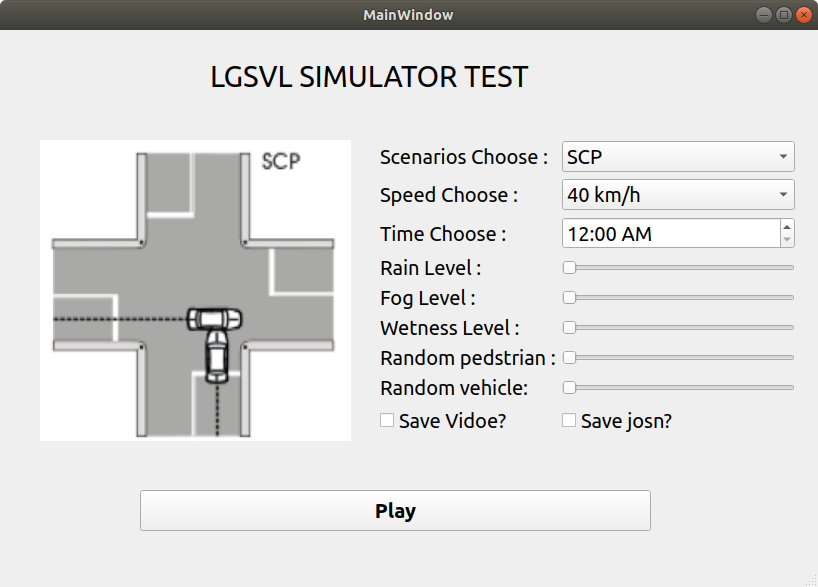
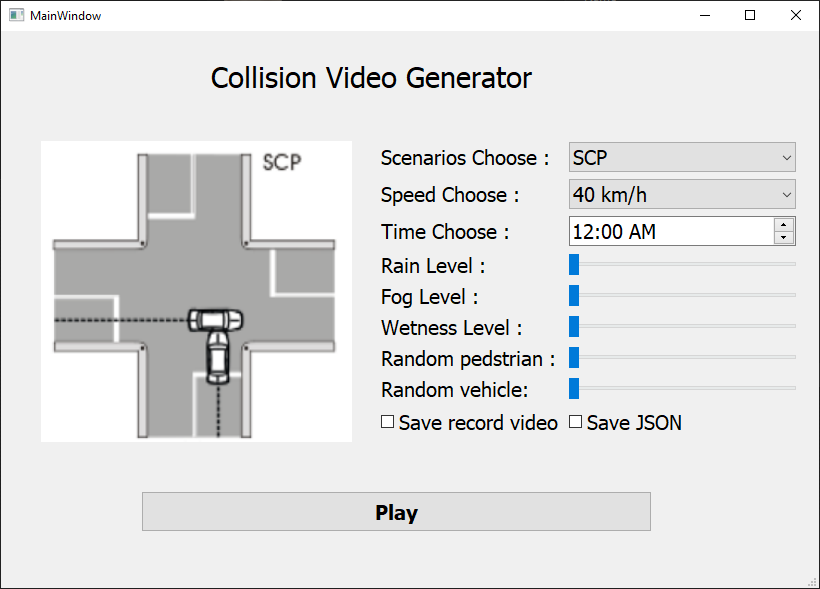
fix image

diff --git a/main.py b/main.py
@@ -183,7 +183,7 @@ class Ui_MainWindow(object):
         MainWindow.setWindowTitle(_translate("MainWindow", "MainWindow"))
         self.pushButton_play.setText(_translate("MainWindow", "Play"))
         self.label_title.setText(_translate(
-            "MainWindow", "LGSVL SIMULATOR TEST"))
+            "MainWindow", "Collision Video Generator"))
         self.label_event.setText(_translate(
             "MainWindow", "Scenarios Choose :"))
         self.comboBox_Speed.setItemText(0, _translate("MainWindow", "40 km/h"))
@@ -197,10 +197,10 @@ class Ui_MainWindow(object):
         self.label_rain.setText(_translate("MainWindow", "Rain Level :"))
         self.label_wetness.setText(_translate("MainWindow", "Wetness Level :"))
         self.label_time.setText(_translate("MainWindow", "Time Choose :"))
-        self.checkBox_video.setText(_translate("MainWindow", "Save Vidoe?"))
+        self.checkBox_video.setText(_translate("MainWindow", "Save record video"))
         self.label_pedstrain.setText(_translate(
             "MainWindow", "Random pedstrian :"))
-        self.checkBox_json.setText(_translate("MainWindow", "Save josn?"))
+        self.checkBox_json.setText(_translate("MainWindow", "Save JSON"))
         self.label_fog.setText(_translate("MainWindow", "Fog Level :"))
         self.label_speed.setText(_translate("MainWindow", "Speed Choose :"))
         self.label_vehicle.setText(_translate("MainWindow", "Random vehicle:"))
